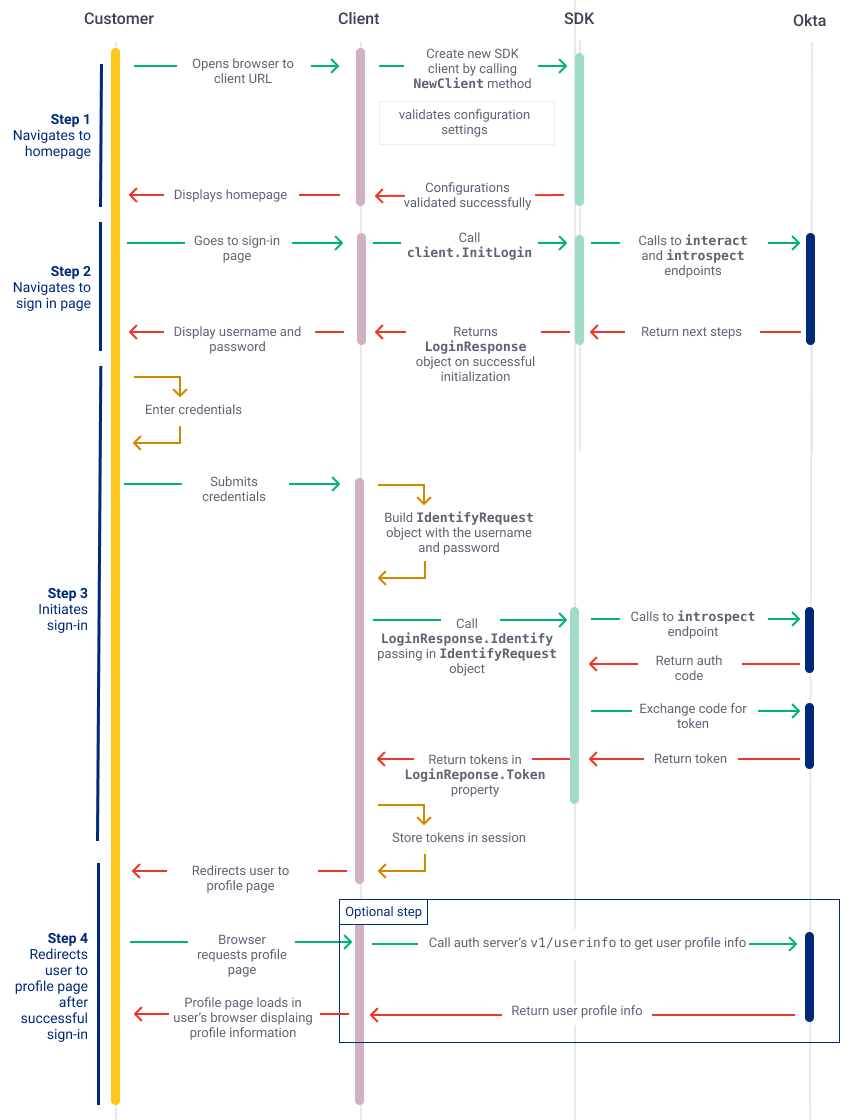
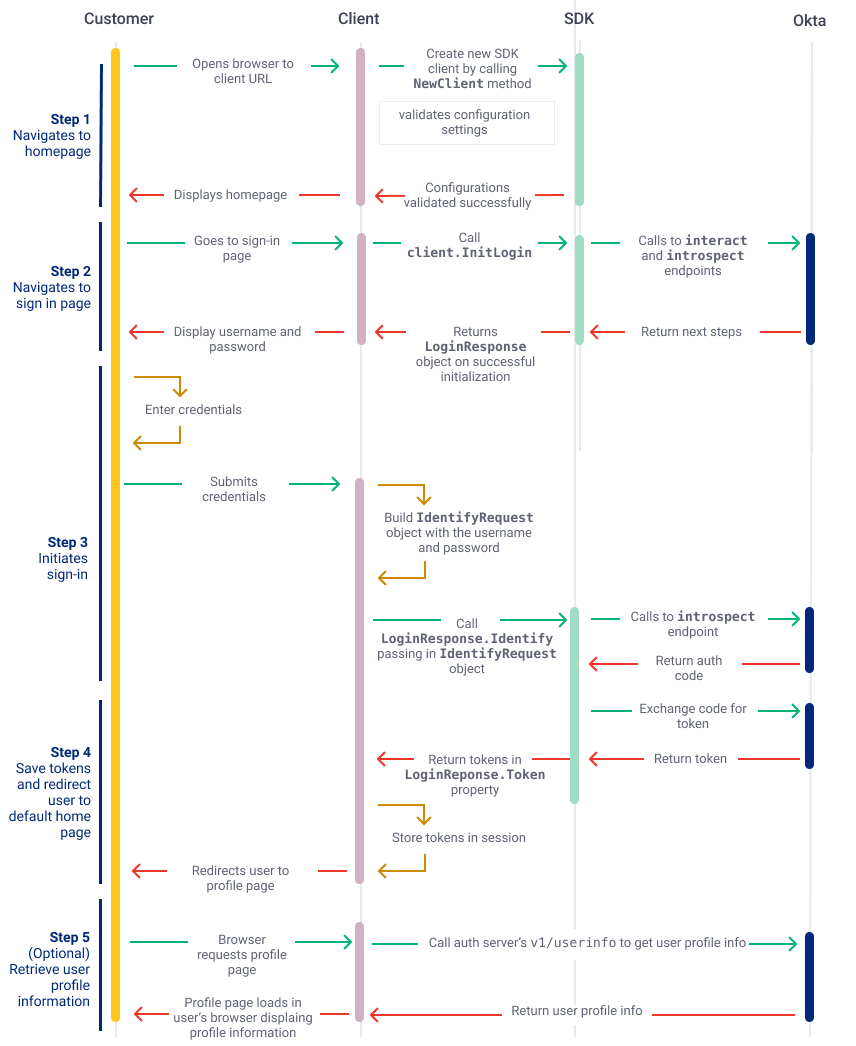
Golang sign in with email factor use case

diff --git a/packages/@okta/vuepress-site/docs/guides/oie-embedded-sdk-use-cases/oie-embedded-sdk-use-case-sign-in-pwd-email/go/integrationsteps.md b/packages/@okta/vuepress-site/docs/guides/oie-embedded-sdk-use-cases/oie-embedded-sdk-use-case-sign-in-pwd-email/go/integrationsteps.md
@@ -1,0 +1,214 @@
+## Integration steps
+
+### Step 1: Create the SDK client on application load
+
+The first step is to create the SDK client when the user navigates to
+the home page and the application loads. Create a new SDK Client by
+calling the `NewClient` method that returns an object of type
+`Client`.
+
+```go
+idx, err := idx.NewClient(
+        idx.WithClientID(c.Okta.IDX.ClientID),
+        idx.WithClientSecret(c.Okta.IDX.ClientSecret),
+        idx.WithIssuer(c.Okta.IDX.Issuer),
+        idx.WithScopes(c.Okta.IDX.Scopes),
+        idx.WithRedirectURI(c.Okta.IDX.RedirectURI))
+if err != nil {
+    log.Fatalf("new client error: %+v", err)
+}
+```
+
+### Step 2: Build sign-in page and intialize client object
+
+Build a sign-in page that captures both the user's name and password.
+
+<div class="common-image-format common-image-format-vertical-margin">
+
+![A basic sign in page in a Golang application](/img/oie-embedded-sdk/oie-embedded-sdk-go-use-case-basic-sign-on-page.png)
+
+</div>
+
+During page load, call the `Client's` `InitLogin` method. This method returns an object of type
+`LoginResponse` that is used to initate the sign in process with Okta in the subsquent steps.  The object
+also contains a list of available social identity providers (IdPs) that is discussed in more detail in the
+[Sign in with Facebook](docs/guides/oie-embedded-sdk-use-cases/go/oie-embedded-sdk-use-case-sign-in-soc-idp/)
+use case.
+
+```go
+lr, err := s.idxClient.InitLogin(context.TODO())
+if err != nil {
+	log.Fatalf("Could not initalize login: %s", err.Error())
+}
+```
+
+### Step 3: Submit credentials when user signs in
+
+After the user enters their credentials and submits their sign in request,
+create an `IdentityRequest` object passing in the username and password from the
+sign-in form.
+
+```go
+    ir := &idx.IdentifyRequest{
+        Identifier: r.FormValue("identifier"),
+        Credentials: idx.Credentials{
+            Password: r.FormValue("password"),
+        },
+    }
+```
+
+Next, using the `LoginResponse` object obtained from
+[Step 2](#step-2-reconfigure-application-for-password-factor-only),
+call its `Identify` method passing in the `IdentifyRequest` created
+in the previous step.
+
+```go
+lr, err = lr.Identify(context.TODO(), ir)
+if err != nil {
+    session.Values["Errors"] = err.Error()
+    session.Save(r, w)
+    http.Redirect(w, r, "/login", http.StatusFound)
+    return
+}
+```
+
+### Step 4: Determine that additional factors are required
+
+The `Identity` method returns a `LoginResponse` and `error`
+object. Use the `error` object to determine if there were errors in the
+user sign-in. If the `error` object is `nil` and `LoginResponse's`
+`Token` property is equal to `nil`, the user needs to confirm their identity
+with additional factors. The following code from the sample application shows
+a redirect to a factors page when there are no errors or tokens in the `LoginResponse`.
+
+```go
+lr, err = lr.Identify(context.TODO(), ir)
+if err != nil {
+    //Error handling code
+}
+
+if lr.Token() != nil {
+    //Login completion code
+}
+
+// Additional factors required -  redirect to factors page
+s.cache.Set("loginResponse", lr, time.Minute*5)
+http.Redirect(w, r, "/login/factors", http.StatusFound)
+return
+```
+
+### Step 5: Show user option to choose the email factor
+
+The next step is to build a page that allows the user to choose a factor
+to continue the authentication flow.
+
+<div class="common-image-format">
+
+![Screenshot showing an option to choose verification through the email factor](/img/oie-embedded-sdk/oie-embedded-sdk-go-use-case-email-verify-page.png)
+
+</div>
+
+On page load display the email factor option when the `LoginResponse's` `HasStep` returns
+`true` when the `LoginStepEmailVerification` constant is passed.
+
+```go
+clr, _ := s.cache.Get("loginResponse")
+lr := clr.(*idx.LoginResponse)
+
+if lr.HasStep(idx.LoginStepEmailVerification) {
+  s.ViewData["FactorEmail"] = true
+} else {
+  s.ViewData["FactorEmail"] = false
+}
+```
+
+### Step 6: Call VerifyEmail when user submits email factor
+
+When the user selects the email factor and clicks submit, call the `LoginResponse's`
+`VerifyEmail` method. Calling this method instructs the Okta org server to send an
+email to the email address the user provided in [Step 3](#step-3-submit-credentials-when-user-signs-in).
+
+```go
+if !ok || !invCode.(bool) {
+  lr, err := lr.VerifyEmail(r.Context())
+  if err != nil {
+    http.Redirect(w, r, "/login", http.StatusFound)
+    return
+  }
+  s.cache.Set("loginResponse", lr, time.Minute*5)
+  }
+  s.render("loginFactorEmail.gohtml", w, r)
+
+```
+
+### Step 7: Show email code verification page
+
+The next step is to build the code verification page. After the user chooses the email factor
+to validate their identity, a page is shown that allows the user to enter the verification code
+from their email.
+
+<div class="common-image-format">
+
+![Screenshot showing an option to choose verification through the email factor](/img/oie-embedded-sdk/oie-embedded-sdk-go-use-case-email-code-confirm-page.png)
+
+</div>
+
+### Step 8: Call ConfirmEmail when user submits the verification code
+
+Once the user checks their email for the code and submits it in the verification code
+page, call the `LoginResponse's` `ConfirmEmail` method to verify the code. For this use case
+the method should return tokens signifying a successful sign in.
+
+```go
+//Get LoginResponse from session
+clr, _ := s.cache.Get("loginResponse")
+lr := clr.(*idx.LoginResponse)
+
+session, err := sessionStore.Get(r, "direct-auth")
+if err != nil {
+  log.Fatalf("could not get store: %s", err)
+}
+
+//Call ConfirmEmail
+lr, err = lr.ConfirmEmail(r.Context(), r.FormValue("code"))
+if err != nil {
+  //Error handling code
+}
+
+//Set returned LoginResopnse in session
+s.cache.Set("loginResponse", lr, time.Minute*5)
+s.ViewData["InvalidEmailCode"] = false
+
+```
+
+### Step 9: Store tokens in session
+
+Store the tokens from the `LoginResponse` in session to be used for
+additional calls. Once the tokens are stored, redirect the user to the
+default signed-in home page.
+
+```go
+// If we have tokens we have success, so lets store tokens
+if lr.Token() != nil {
+  session, err := sessionStore.Get(r, "direct-auth")
+  if err != nil {
+    log.Fatalf("could not get store: %s", err)
+  }
+  session.Values["access_token"] = lr.Token().AccessToken
+  session.Values["id_token"] = lr.Token().IDToken
+
+  err = session.Save(r, w)
+  if err != nil {
+    log.Fatalf("could not save access token: %s", err)
+  }
+  // redirect the user to /profile
+  http.Redirect(w, r, "/", http.StatusFound)
+  return
+}
+```
+
+### Step 10 (Optional): Get user profile information
+
+Optionally, you can obtain basic user information after a successful user
+sign-in by making a request to Okta's Open ID Connect authorization server.
+See [Get user profile information after sign in](/docs/guides/oie-embedded-sdk-alternate-flows/aspnet/main/#getuserprofileinfo).

diff --git a/packages/@okta/vuepress-site/docs/guides/oie-embedded-sdk-use-cases/oie-embedded-sdk-use-case-basic-sign-in/go/integrationsteps.md b/packages/@okta/vuepress-site/docs/guides/oie-embedded-sdk-use-cases/oie-embedded-sdk-use-case-basic-sign-in/go/integrationsteps.md
@@ -72,7 +72,7 @@ if err != nil {
 }
 ```
 
-### Step 4: Handle the response from the sign-in
+### Step 4: Store tokens in session and redirect user to default sign-in page
 
 The `Identity` method returns a `LoginResponse` and `error`
 object. Use the `error` object to determine if there were errors in the
@@ -105,5 +105,5 @@ if lr.Token() != nil {
 ### Step 5 (Optional): Get user profile information
 
 Optionally, you can obtain basic user information after a successful user
-sign in by making a request to Okta's Open ID Connect authorization server.
+sign-in by making a request to Okta's Open ID Connect authorization server.
 See [Get user profile information after sign in](/docs/guides/oie-embedded-sdk-alternate-flows/aspnet/main/#getuserprofileinfo).

diff --git a/packages/@okta/vuepress-site/docs/guides/oie-embedded-sdk-use-cases/oie-embedded-sdk-use-case-basic-sign-out/go/integrationsteps.md b/packages/@okta/vuepress-site/docs/guides/oie-embedded-sdk-use-cases/oie-embedded-sdk-use-case-basic-sign-out/go/integrationsteps.md
@@ -1,6 +1,6 @@
 ## Integration steps
 
-### Create a sign out UI element
+### Step 1: Create a sign out UI element
 
 The first step is to create a link, button, or another similar UI
 element that allows the user to sign out of the app.
@@ -35,6 +35,6 @@ to remove the tokens from the server and clear it from use from any location.
 <!-- The goland SDK and sample app do not have code to revoke a token. It's a bug and a JIRA ticket
 has been opened. In the meantime, a reference to manually revoke the token using the endpoints is used. -->
 
-### Step 4: Send user to the signed out page
+### Step 4: Redirect user to the signed-out page
 
 After the user is signed out, send them to the default page after a sign-out.

diff --git a/packages/@okta/vuepress-site/docs/guides/oie-embedded-sdk-use-cases/oie-embedded-sdk-use-case-sign-in-pwd-email/go/summaryofsteps.md b/packages/@okta/vuepress-site/docs/guides/oie-embedded-sdk-use-cases/oie-embedded-sdk-use-case-sign-in-pwd-email/go/summaryofsteps.md
@@ -1,0 +1,9 @@
+## Summary of steps
+
+The sequence of steps for the sign in with password and email flow is shown below.
+
+<div class="common-image-format">
+
+![A diagram showing the sign-in flow using the email factor with the Golang sample application](/img/oie-embedded-sdk/oie-embedded-sdk-go-use-case-sign-on-email-factor.png)
+
+</div>
